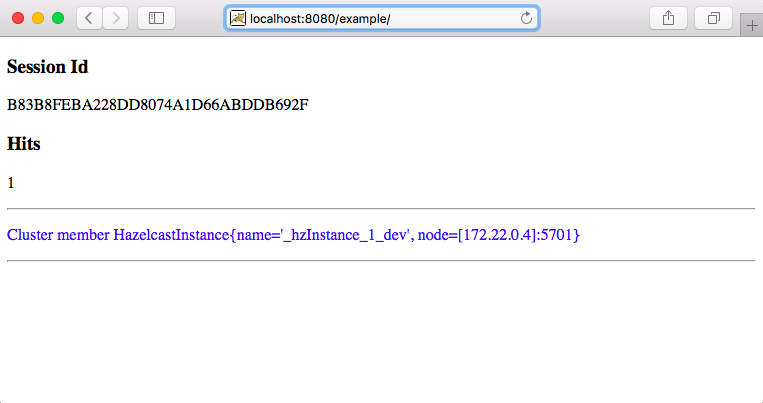
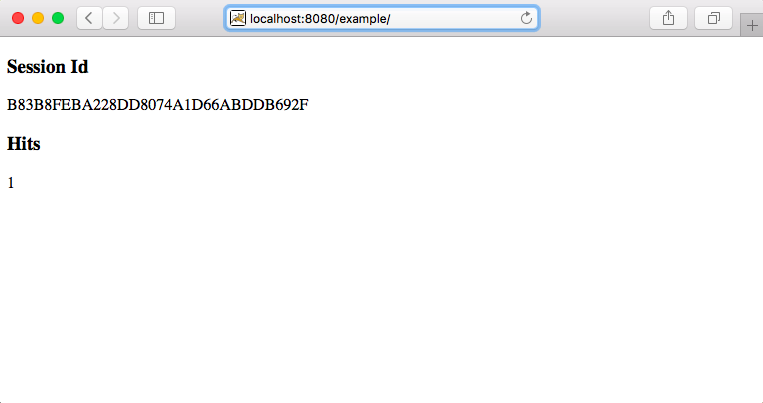
Fixed springboot application

Changed region(s): [[0.0, 0.5658, 0.7837, 0.5955]]

diff --git a/springboot-http/src/main/resources/templates/index.html b/springboot-http/src/main/resources/templates/index.html
@@ -9,24 +9,6 @@
 
 		<h3>Hits</h3>
 		<p th:text="${#httpSession.getAttribute('hits')}"/>
-		
 
-		<!--/* Confirm which cluster member this process contains */-->
-		
-		<div th:if="${beans.containsKey('hazelcastInstance')}">
-			<hr/>
-				<div style="color:blue">
-					<p th:text="'Cluster member ' + ${@hazelcastInstance}"/>
-				</div>				
-			<hr/>
-		</div>
-		<div th:unless="${beans.containsKey('hazelcastInstance')}">
-			<hr/>
-				<div style="color:red">
-					<p>No Hazelcast @Bean</p>
-				</div>				
-			<hr/>
-		</div>
-		
 	</body>
 </html>

diff --git a/springboot-http/src/main/java/com/hazelcast/springboot/http/Application.java b/springboot-http/src/main/java/com/hazelcast/springboot/http/Application.java
@@ -5,68 +5,16 @@ import org.springframework.boot.autoconfigure.SpringBootApplication;
 import org.springframework.boot.builder.SpringApplicationBuilder;
 import org.springframework.boot.web.support.SpringBootServletInitializer;
 
-/**
- * Create a main class tagged for Spring Boot handling.
- *
- * <h3>Usage</h3>
- * When built using "{@code mvn package}" the <i>Jar</i> file created
- * is executable, and can be run with
- * <pre>java -jar springboot-http-0.1-SNAPSHOT.jar</pre>
- *
- * When started, a Tomcat instance is started within the process,
- * along with the web application, and (optionally) a Hazelcast
- * server process. In other words, everything in one, no need to
- * deploy a <i>WAR</i> file to an existing Tomcat, JBoss or similar.
- *
- * The configuration of this application is to start the embedded
- * Tomcat using any available port rather than the default 8080 which
- * is frequently already in use. The port that is picked is clearly
- * shown in the logs, in a line such as
- * "{@code Tomcat started on port(s): 62578 (http)}"
- *
- * Alternatively, you can specify the port to be used on the
- * command line with
- * <pre>java <b>-Dserver.port=8081</b> -jar springboot-http-0.1-SNAPSHOT.jar</pre>
- * if a degree of control is useful.
- *
- * <h3>Sessions</h3>
- * The purpose of this application is to demonstrate the caching of
- * HTTP sessions in Hazelcast, and this is controlled by the compile
- * time constant {@link #USE_HAZELCAST}.
- *
- * When set to {@code false}, Hazelcast isn't started in this process,
- * and normal Tomcat session caching applies. Meaning, when the process
- * is killed the sessions are lost.
- *
- * When set to {@code true}, Hazelcast is started and configured to
- * share the storage of the sessions with any other Hazelcast instances
- * it can find, so that sessions aren't lost if this process is killed.
- * For this to work, obviously other Hazelcast servers need to be running.
- * The easiest way to achieve this is to run another instance of this
- * <i>JAR</i> file -- which is why the port can't be preset or they
- * will clash on the same machine.
- */
+
 @SpringBootApplication
 public class Application extends SpringBootServletInitializer {
 
-    /**
-     * Set to {@code true} to use Hazelcast for distributed session
-     * storage. Or, {@code false} to turn off Hazelcast and use the
-     * default Tomcat non-distributed implementation.
-     *
-     * This is a constant rather than a parameter to ensure all
-     * instances run with the same setting.
-     */
-    public static final String USE_HAZELCAST = "true";
+
 
     protected SpringApplicationBuilder configure(SpringApplicationBuilder application) {
         return application.sources(Application.class);
     }
-    /**
-     * Run the application under Spring Boot control.
-     *
-     * @param args From the command line
-     */
+
     public static void main(String[] args) {
         SpringApplication.run(Application.class, args);
     }

diff --git a/springboot-http/README.md b/springboot-http/README.md
@@ -14,69 +14,69 @@ You should have installed Docker and Apache Maven on your system.
 
 1. Clone repo into the local;
  
-`git clone https://github.com/hazelcast/hazelcast-docker-samples.git`
+    `git clone https://github.com/hazelcast/hazelcast-docker-samples.git`
  
 2. Go to directory;
 
-`cd hazelcast-docker-samples/springboot-http/`
+    `cd hazelcast-docker-samples/springboot-http/`
 
 3. Run `run.sh` shell file from terminal.
 
 4. Open a browser and enter;
  
-`http://localhost:8080/example`
+    `http://localhost:8080/example`
 
 
 <h2>Test</h2>
 
 1. Somewhere in the log output you should see output like this, to confirm the two processes have found each other and formed a cluster of two:
 
-```
- Members [2] {
-         Member [172.22.0.3]:5701 - 2ed482aa-0bcd-458e-931e-552da319a726
-         Member [172.22.0.4]:5701 - 2ece8c21-76da-4cd7-ac9c-95cb2d94055f
-}
-```
+    ```
+     Members [2] {
+             Member [172.22.0.3]:5701 - 2ed482aa-0bcd-458e-931e-552da319a726
+             Member [172.22.0.4]:5701 - 2ece8c21-76da-4cd7-ac9c-95cb2d94055f
+    }
+    ```
 
 2. In a browser, navigate to the URL for Nginx Load Balancer Portal, `http://localhost:8080/example`
 
-![Image of a web page showing a hit counter of 1][Test1] 
+    ![Image of a web page showing a hit counter of 1][Test1] 
 
-The first time the page is shown you should see something like this showing the session id and hit counter. Also, there is a report on which Hazelcast cluster process you are using, the one on Hazelcast ip 172.22.0.4.
+The first time the page is shown you should see something like this showing the session id and hit counter.
 
 
 3. Refresh the page a few times and the hit counter goes up in the logs:
-
-```
-tomcatServerTwo_1  | c.h.springboot.http.WebController        : index() called, hits was '1', session id 'B83B8FEBA228DD8074A1D66ABDDB692F'
-tomcatServerTwo_1  | c.h.springboot.http.WebController        : index() called, hits was '2', session id 'B83B8FEBA228DD8074A1D66ABDDB692F'
-tomcatServerTwo_1  | c.h.springboot.http.WebController        : index() called, hits was '3', session id 'B83B8FEBA228DD8074A1D66ABDDB692F'
-tomcatServerTwo_1  | c.h.springboot.http.WebController        : index() called, hits was '4', session id 'B83B8FEBA228DD8074A1D66ABDDB692F'
-```
+    
+    ```
+    tomcatServerTwo_1  | c.h.springboot.http.WebController        : index() called, hits was '1', session id 'B83B8FEBA228DD8074A1D66ABDDB692F'
+    tomcatServerTwo_1  | c.h.springboot.http.WebController        : index() called, hits was '2', session id 'B83B8FEBA228DD8074A1D66ABDDB692F'
+    tomcatServerTwo_1  | c.h.springboot.http.WebController        : index() called, hits was '3', session id 'B83B8FEBA228DD8074A1D66ABDDB692F'
+    tomcatServerTwo_1  | c.h.springboot.http.WebController        : index() called, hits was '4', session id 'B83B8FEBA228DD8074A1D66ABDDB692F'
+    ```
 
 and on screen:
-
-![Image of a web page showing a hit counter of 4][Test2] 
+   
+   ![Image of a web page showing a hit counter of 4][Test2] 
 
 
 4. Now kill off the Docker container for the Tomcat instance you are currently using.
 
 
-```
-docker stop <container-id>
-```
+   ```
+    docker stop <container-id>
+   ```
 
 Logs:
 
 
-```
-springboothttp_tomcatServerTwo_1 exited with code 143
-tomcatServerOne_1  | [cached.thread-4] c.h.t.TransactionManagerService          : [172.22.0.3]:5701 [dev] [3.9-SNAPSHOT] Committing/rolling-back alive transactions of client, UUID: 5cd3c1df-3595-4b31-b5fc-f4282362c416
-```
+   ```
+   springboothttp_tomcatServerTwo_1 exited with code 143
+   tomcatServerOne_1  | [cached.thread-4] c.h.t.TransactionManagerService          : [172.22.0.3]:5701 [dev] [3.9-SNAPSHOT] Committing/rolling-back alive transactions of client, UUID: 5cd3c1df-3595-4b31-b5fc-f4282362c416
+   ```
 
 5. Finally, refresh the browser once more.
 
-![Image of a web page showing a hit counter of 5][Test3] 
+    ![Image of a web page showing a hit counter of 5][Test3] 
 
 The session is still available, and the hit counter has advanced by one more to 5. The cluster member in the Tomcat process is using Hazelcast ip 172.22.0.3.
 
